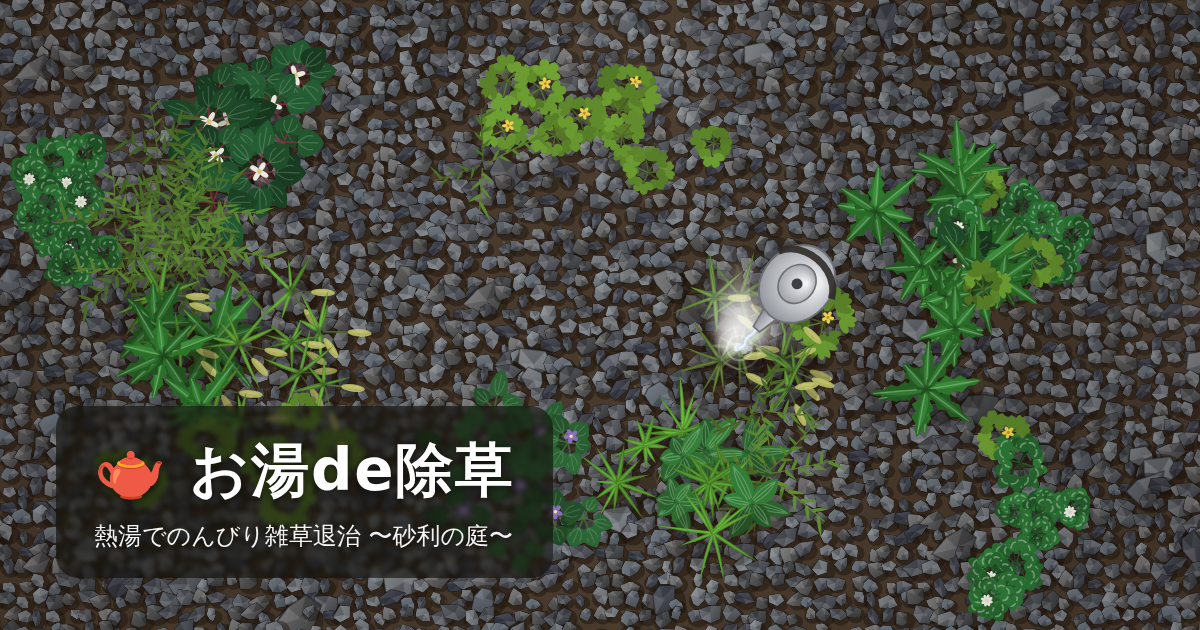
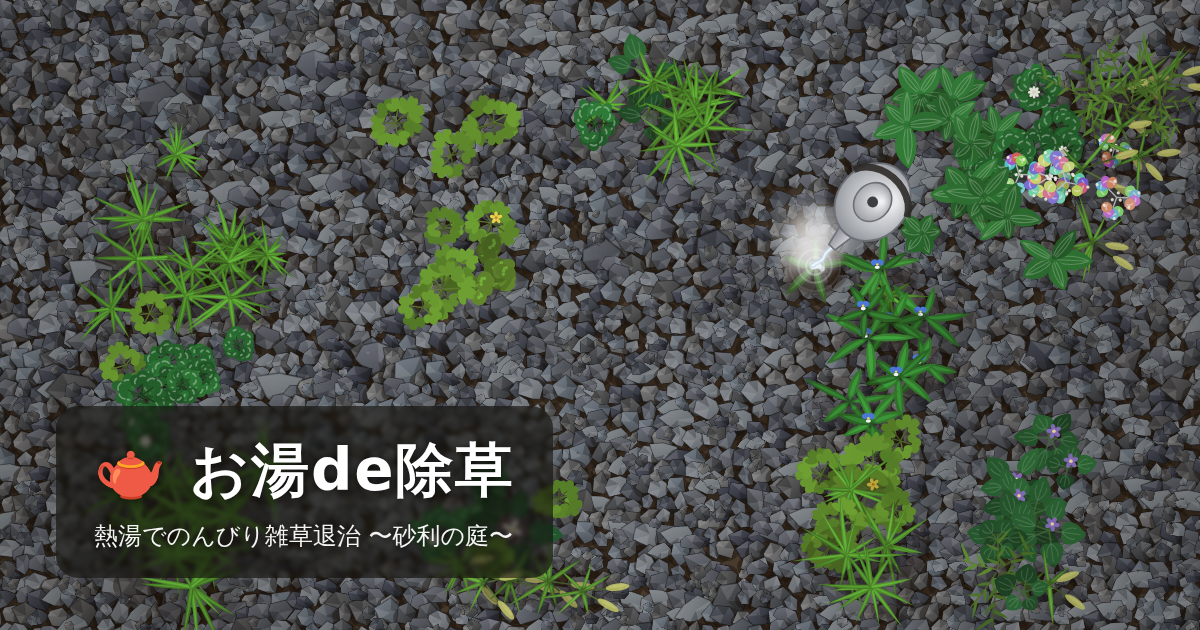
砂利を敷き詰めて土がほぼ見えないように
- メインの石を一回り大きくして互いに重なるように(sc 0.28〜0.4)
- すき間を埋める小石の散布パスを追加。土は石の間の影として
  わずかに覗く程度に
- 生成時間は128msでほぼ変わらず。OGP画像も再生成

Claude-Session: https://claude.ai/code/session_01NT32zEiK4B6ou4LjRNvqhH

diff --git a/index.html b/index.html
@@ -520,7 +520,7 @@ function buildGravel() {
       const y = (j - 0.5) * cell + rnd(-3, 3);
       const spr = stoneSprites[irnd(0, stoneSprites.length - 1)];
       const big = Math.random() < 0.025;
-      const sc = big ? rnd(0.42, 0.6) : rnd(0.2, 0.32);
+      const sc = big ? rnd(0.45, 0.62) : rnd(0.28, 0.4);
       // 影(土に落ちる影なので暖色寄り)
       g.beginPath();
       g.ellipse(x + 1.3, y + 1.8, STONE_R * sc * 1.1, STONE_R * sc * 0.95, 0, 0, TAU);
@@ -535,6 +535,18 @@ function buildGravel() {
       g.restore();
     }
   }
+  // すき間を小石で埋める(土はほんの少し覗く程度に)
+  for (let n = 0; n < (gravelCssW * gravelCssH) / 300; n++) {
+    const spr = stoneSprites[irnd(0, stoneSprites.length - 1)];
+    const sc = rnd(0.16, 0.26);
+    g.save();
+    g.translate(rnd(gravelCssW), rnd(gravelCssH));
+    g.rotate(rnd(-0.6, 0.6));
+    g.scale(sc * rnd(0.85, 1.2), sc);
+    g.drawImage(spr, -32, -32);
+    g.restore();
+  }
+
   // 地面のうねり(ゆるい明暗のむら)
   const patches = Math.round((gravelCssW * gravelCssH) / 60000);
   for (let n = 0; n < patches; n++) {